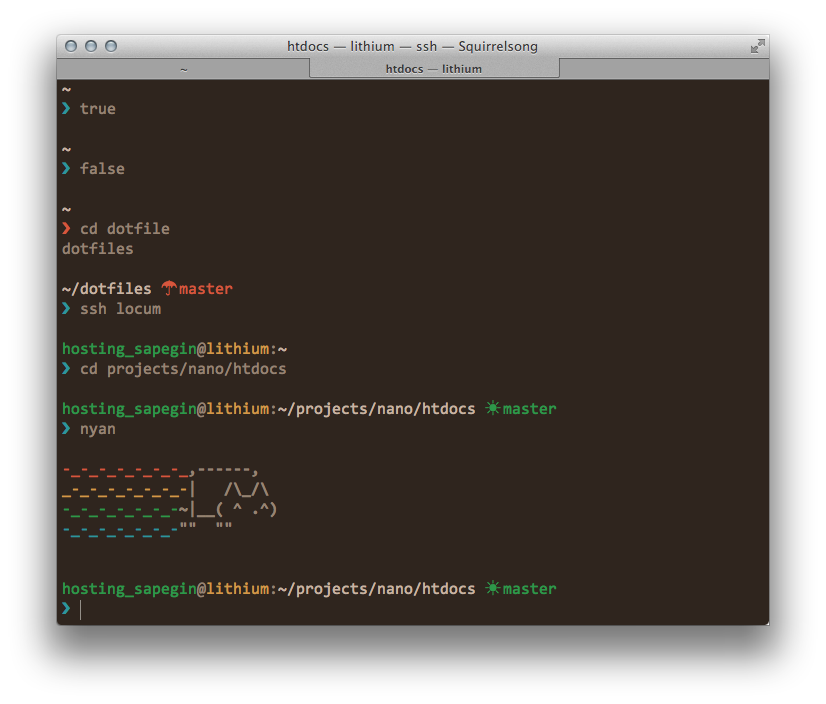
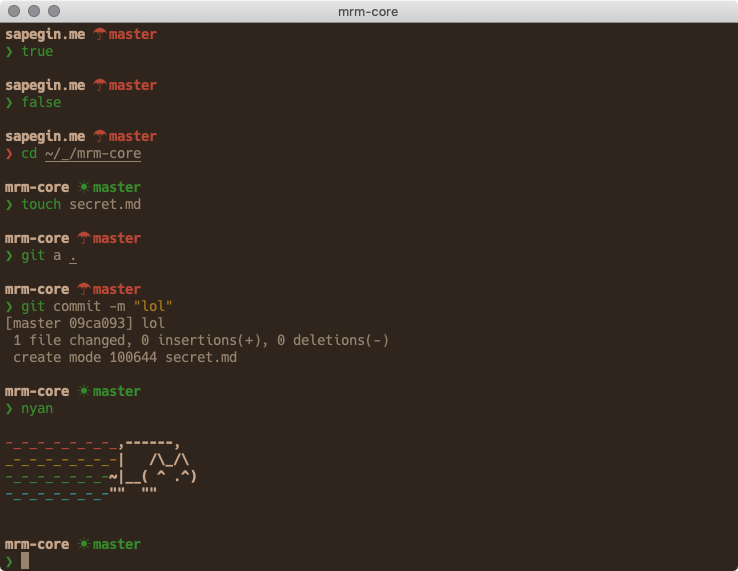
Update screenshot

diff --git a/Readme.md b/Readme.md
@@ -1,6 +1,6 @@
 # Squirrelsong Terminal Color Scheme
 
-![Squirrelsong Terminal Color Scheme](http://wow.sapegin.me/1r1B0f1M1q2W/squirrelsong.png)
+![Squirrelsong Terminal Color Scheme](squirrelsong_terminal.png)
 
 Inspired by [Earthsong](https://github.com/daylerees/colour-schemes/blob/master/README.md#earthsong) Sublime Text scheme by [Dayle Rees](https://github.com/daylerees).
 
